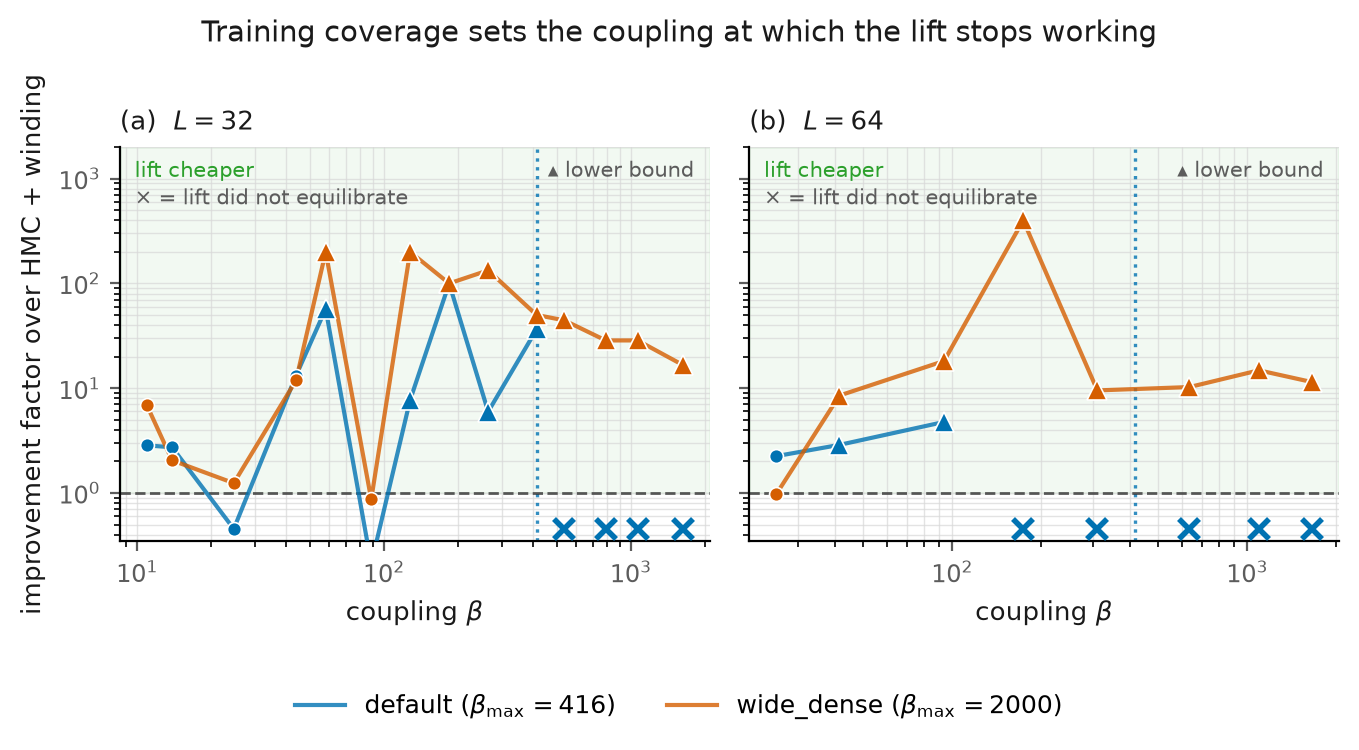
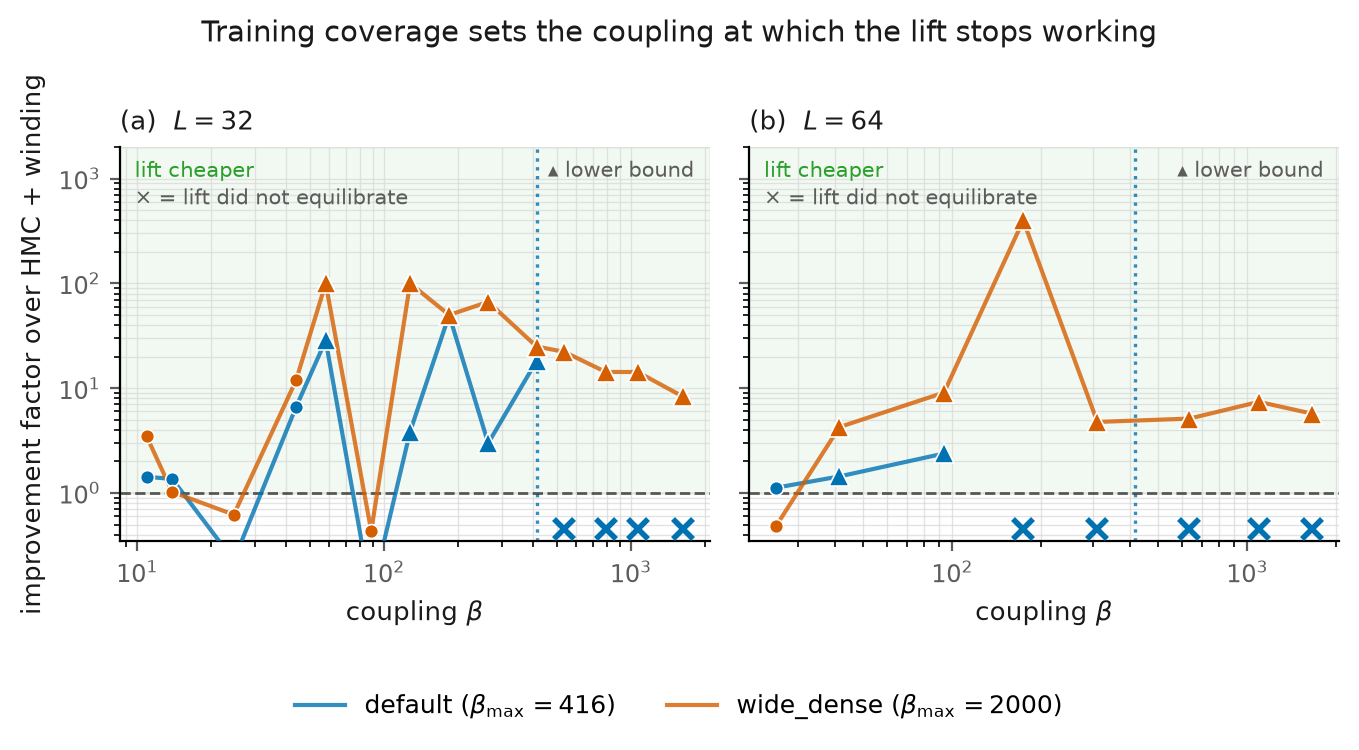
paper first draft

Changed region(s): [[0.0927, 0.3373, 0.5254, 0.736], [0.5563, 0.3067, 0.989, 0.7053], [0.9581, 0.552, 0.989, 0.5827]]

diff --git a/u2_2d/scripts/89_money_figure.py b/u2_2d/scripts/89_money_figure.py
@@ -83,6 +83,24 @@ def worst(d, arm):
     return max(vals) if vals else float("nan")
 
 
+def record_every(ckpt, stem, beta):
+    """Records-to-trajectories factor for one scan point.
+
+    `t_therm_threshold_old` is a RECORD INDEX -- 28_crossover_scan.py writes it
+    straight out of `thermalization_time` with no `record_every` factor --
+    while the interval it is divided into is in TRAJECTORIES, because
+    90_standard_timescales.py multiplies by `record_every`. Dividing one by the
+    other unconverted inflates every improvement factor by this factor.
+    """
+    f = BASE / ckpt / "series" / f"{stem}_beta{beta:g}.npz"
+    if not f.exists():
+        raise FileNotFoundError(
+            f"no series file for {ckpt}/{stem} at beta={beta:g}; "
+            "the records-to-trajectories factor cannot be recovered")
+    with np.load(f) as z:
+        return float(z["record_every"])
+
+
 def load(ckpt, stem, ts):
     """model beta, lift equilibration cost, and both classical intervals."""
     f = BASE / ckpt / f"{stem}.json"
@@ -98,7 +116,8 @@ def load(ckpt, stem, ts):
         # lifts are independent by construction and the per-configuration cost
         # is the equilibration cost alone. A classical chain has to pay both.
         d["lift"].append(worst(r.get("t_therm_threshold_old", {}),
-                               "diffusion seed"))
+                               "diffusion seed")
+                         * record_every(ckpt, stem, b))
         for key, st in (("cost_wind", stem), ("cost_plain", plain_stem)):
             iv = ts.get(f"{ckpt}|{st}|{b:g}", {}).get("interval_cold")
             meta = (BASE / ckpt / f"{st}.json")
@@ -106,6 +125,8 @@ def load(ckpt, stem, ts):
             if meta.exists():
                 for rr in json.loads(meta.read_text()):
                     if abs(rr["beta"] - b) < 1e-9:
+                        # only tested for finiteness below, so the
+                        # records-to-trajectories factor is irrelevant here
                         tt = worst(rr.get("t_therm_threshold_old", {}),
                                    "cold start")
                         break

diff --git a/u2_2d/lgt/blocking.py b/u2_2d/lgt/blocking.py
@@ -131,12 +131,18 @@ def topology_matched_fine_beta(coarse_beta: float, coarse_size: int) -> float:
     what every rung above it gets. Matching <Q^2> instead makes the transported
     value correct by construction and leaves only the base's statistical error.
 
-    The two criteria nearly agree and diverge only on small lattices, where the
-    determinant-sector P(Q) is still outside its asymptotic regime: starting from
-    L = 8, beta = 14 they differ by 5.2% at the first step, 1.2% at the second and
-    0.3% at the third. Preferring this one costs a slightly different coupling and
-    buys an unbiased <Q^2>; which matters depends on whether the study's claim is
-    about the action or about topology.
+    THE TWO CRITERIA DO NOT CONVERGE UP THE LADDER -- an earlier version of this
+    docstring said they did (5.2% / 1.2% / 0.3%) and that was wrong in both value
+    and direction. Measured, character matching against this one:
+
+        base L = 8,  beta = 14:  5.50%, 6.91%, 7.26% over three steps
+        base L = 16, beta = 28:  2.27%, 2.85%, 3.00%
+
+    The gap is set by how far the finite-volume P(Q) is from its asymptotic form,
+    so it is smaller at the weaker-coupling base, and it grows slowly with each
+    step rather than closing. Preferring this criterion costs a coupling 2-3%
+    below the character-matched one and buys an unbiased <Q^2>; which matters
+    depends on whether the study's claim is about the action or about topology.
     """
     target = det_topological_susceptibility(coarse_beta, coarse_size) * coarse_size ** 2
     fine_size = 2 * coarse_size

diff --git a/u2_2d/scripts/91_ladder_volume_figure.py b/u2_2d/scripts/91_ladder_volume_figure.py
@@ -128,8 +128,11 @@ def measure(path, L, beta, stem):
         arr, step = series(path, stem, key)
         tts.append(therm(arr, u2x(beta, area, lattice_size=L), step))
         ivs.append(interval(arr, step))
+    # t_therm is maximised over the Wilson loops ONLY; the interval also
+    # includes Q^2. A frozen chain has an exactly constant Q^2 and so never
+    # satisfies the equilibration criterion, which would make every classical
+    # t_therm infinite -- see the definition in the paper's Sec. IV.
     arr, step = series(path, stem, "charge")
-    tts.append(therm(arr ** 2, q2ex, step))
     ivs.append(interval(arr ** 2, step))
     return float(np.nanmax(tts)), max(ivs)
 
